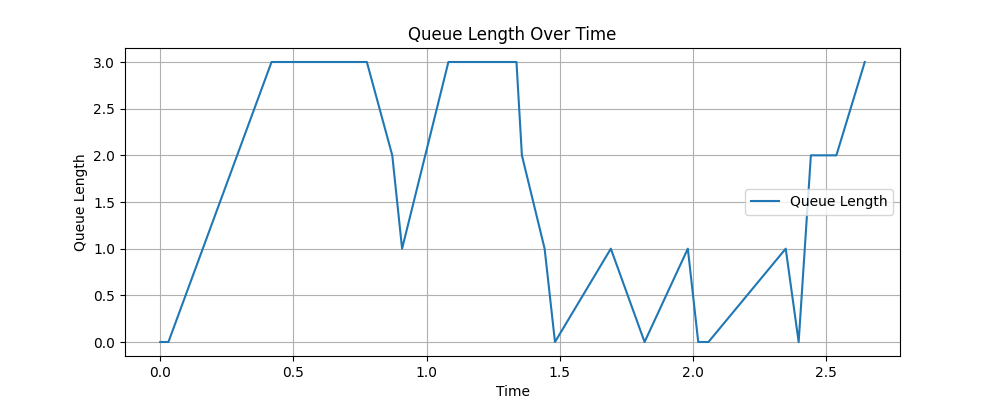
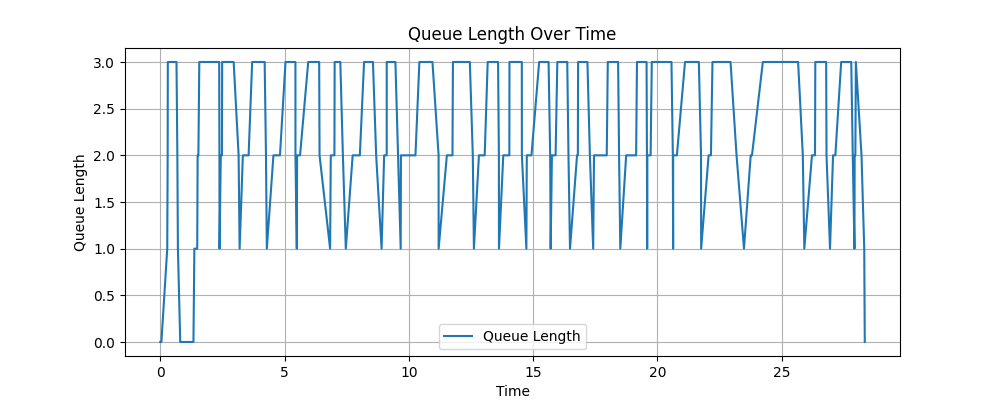
Enhance MM1 simulator with improved packet handling and congestion control logic; update simulation parameters and results images.

diff --git a/mm1.py b/mm1.py
@@ -16,6 +16,8 @@ from enum import Enum
 from typing import Union
 from numpy import random as rnd
 
+rnd.seed(42)  
+
 #== Congestion Control Classes ==#
 class CongestionControl:
     '''
@@ -441,31 +443,55 @@ class Simulator():
         # init sim time and packet counter
         cur_time = 0
         packet_id = 0
+        inflight = set()
 
         # process packets until specified num of packet is reached
-        while packet_id < n_packet:
-            cwnd = self.cc.get_cwnd() if self.cc is not None else 1
+        while packet_id < n_packet or self.queue.event_queue:
+            cwnd = self.cc.get_cwnd() if self.cc else 1
 
-            for _ in range(cwnd):
-                if packet_id >= n_packet:
-                    break
-
+            # Push cwnd packets and advance time
+            while packet_id < n_packet and len(inflight) < cwnd:
                 # generate new packet and insert into queue
                 packet = Packet(packet_id, cur_time, self.mu, self.theta, self.is_exp_drop)
                 print(f"[{cur_time:.4f}] [{len(self.queue.priority_queue)}] Packet {packet_id} ARRIVAL")
 
                 self.queue.insert_packet(packet)
-
-                # log the current time and queue state
-                # self.queue.log_stats(cur_time)
+                inflight.add(packet_id)
 
                 # advance sim time and increment packet id
-                cur_time += rnd.exponential(1 / self.lmbda)
                 packet_id += 1
+                cur_time += rnd.exponential(1 / self.lmbda)
 
-            # handle jobs in the queue
-            while self.queue.event_queue and cur_time >= self.queue.event_queue[0][0]:
-                self.queue.handle_jobs(self.cc)
+            if self.queue.event_queue:
+                next_event_time, next_event = heapq.heappop(self.queue.event_queue)
+                packet = self.queue.all_packets[next_event.packet_id]
+
+                # Handle the packet event
+                new_event = self.queue.handle_events(packet, next_event_time, next_event.status)
+
+                # Congestion control logic
+                if self.cc:
+                    if next_event.status == PacketStatus.SERVICED:
+                        self.cc.on_ack(next_event_time)
+                    elif next_event.status in [PacketStatus.DROP, PacketStatus.BLOCK]:
+                        self.cc.on_loss(next_event_time)
+
+                # Remove from in-flight tracking
+                inflight.discard(next_event.packet_id)
+
+                # Add follow-up event if any
+                if new_event:
+                    self.queue.insert_event(new_event)
+
+                # Log queue stats
+                self.queue.log_stats(next_event_time, next_event.status)
+
+                # Advance time to next event
+                cur_time = max(cur_time, next_event_time)
+
+            # Advance time if more packets are to arrive (simulate interarrival spacing)
+            if self.cc is None and packet_id < n_packet:
+                cur_time += rnd.exponential(1 / self.lmbda)
 
         # compute and return blocking and dropping probabilities
         return self.queue.n_block / n_packet, self.queue.n_drop / n_packet, (self.queue.service_log[-1], self.queue.drop_log[-1], self.queue.block_log[-1])
@@ -541,15 +567,17 @@ class Simulator():
 def main():
     # set parameters
     mu = 10  # service rate (μ)
+    lmbda = 20 # arrival rate (λ)
     theta = 1 # deadline rate or fixed deadline time (θ)
-    lmbda = 12 # arrival rate (λ)
-    n_packet = 30
+    n_packet = 300
 
     queue_size = 4 
     is_exp_drop = False
+
+    tcp_cc = 'reno'
     
     # init simulator
-    sim = Simulator(lmbda=lmbda, mu=mu, theta=theta, size=queue_size, is_exp_drop=is_exp_drop, tcp_cc="cubic")
+    sim = Simulator(lmbda=lmbda, mu=mu, theta=theta, size=queue_size, is_exp_drop=is_exp_drop, tcp_cc=tcp_cc)
 
     # run sim
     sim_pb, sim_pd, sim_counts = sim.run(n_packet=n_packet)
@@ -564,6 +592,7 @@ def main():
     print(f"  - Deadline Rate (θ): {theta} (Exp: {is_exp_drop})")
     print(f"  - Queue Size: {'Infinite' if queue_size is None else queue_size}")
     print(f"  - Total Packets: {n_packet}")
+    print(f"  - Congestion Control: {tcp_cc if tcp_cc else 'None'}")
 
     print("\nSimulation Statistics:")
     print(f"  - Blocked Rate: {sim_pb:.4f} ({sim_pb * 100:.2f}%)")
